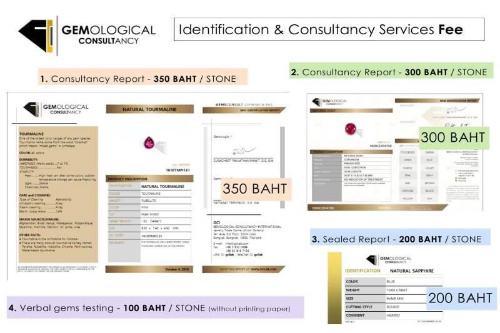
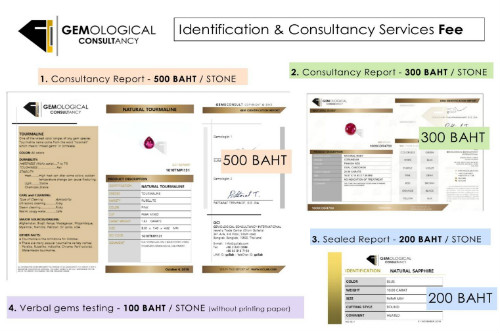
update service page

diff --git a/src/components/PageServices.vue b/src/components/PageServices.vue
@@ -26,7 +26,7 @@
                                 <div>
                                     <p class="p-type-3 color-grey margin-t20">
                                         <ol>
-                                            <li>350 BAHT/STONE</li>
+                                            <li>500 BAHT/STONE</li>
                                             <li>300 BAHT/STONE</li>
                                             <li>200 BAHT/STONE</li>
                                         </ol>
@@ -34,7 +34,7 @@
                                     <p class="p-type-3 color-grey margin-t20">ONE REPORT CAN BE CONTAINED MULTIPLE STONES DETAILS WITH ADDITIONAL FEE OF 100 BAHT PER STONE.</p>
                                     <div class="example">
                                         <p class="p-type-3 color-grey margin-t20">FOR EXAMPLE:</p>
-                                        <p class="p-type-3 color-grey margin-t20">ONE REPORT (NUMBER 1, 350 BAHT) FOR A PAIR OF RUBIES = THE TOTAL FEE IS 450 BAHT. (350 + 100)</p>
+                                        <p class="p-type-3 color-grey margin-t20">ONE REPORT (NUMBER 1, 500 BAHT) FOR A PAIR OF RUBIES = THE TOTAL FEE IS 600 BAHT. (500 + 100)</p>
                                     </div>
                                 </div>
                             </div>
